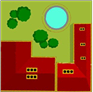
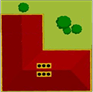
New Textures

diff --git a/src/gui/GUICharacterInfo.java b/src/gui/GUICharacterInfo.java
@@ -16,11 +16,13 @@ import javax.swing.JTextPane;
 import actions.Actions;
 import actions.Entertain;
 import actions.Shifting;
+import actions.Sleeping;
 import character.Character;
 import chart.ChartActionRepartitionDaily;
 import city.Map;
 import clock.Schedule;
 import run.Run;
+import utils.Coordinates;
 
 public class GUICharacterInfo extends JPanel{
 	
@@ -175,14 +177,23 @@ public class GUICharacterInfo extends JPanel{
 		@Override
 		public void actionPerformed(ActionEvent e) {
 			Actions action = null;
+			Coordinates adress = null;
 			switch(actionType.getSelectedIndex()){
 				case 1:
-					action = new Entertain(map.getEntertainmentList().get(infra.getSelectedIndex()), Run.getClockTime(), new Schedule(3, 0));
+					adress = map.getEntertainmentList().get(infra.getSelectedIndex()).getAddress();
+					action = new Entertain(map.getEntertainmentList().get(infra.getSelectedIndex()), Run.getClockTime(), new Schedule("3"));
 					break;
 				case 2:
-					action = new Shifting(Run.getClockTime(), currentCharacter.getPosition(), map.getEntertainmentList().get(infra.getSelectedIndex()).getAddress());
+					adress = map.getEntertainmentList().get(infra.getSelectedIndex()).getAddress();
+					action = new Shifting(Run.getClockTime(), currentCharacter.getPosition(), adress);
+					break;
+				case 3:
+					adress = currentCharacter.getHome().getAddress();
+					action = new Sleeping(currentCharacter.getHome(), Run.getClockTime(), new Schedule("3"));
+					break;
 			}
 			currentCharacter.getRoutine().addFirstToCR(action);
+			currentCharacter.getRoutine().addFirstToCR(new Shifting(Run.getClockTime(), currentCharacter.getPosition(), adress));
 		}
 	}
 	
